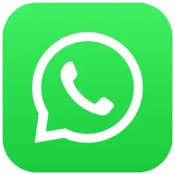
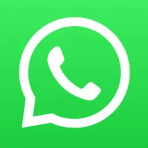
atualizando meu site colocando a parte de projetos e melhorando a aparência do contact

diff --git a/contact.html b/contact.html
@@ -23,11 +23,11 @@
   <header>
 
     <div class="center">
-    <div class="bordap"><img src="./img/imagempessoal.jpeg"></div>
+    <div class="bordap"><img id="imagemprincipal" src="./img/imagempessoal.jpeg"></div>
      <h1>Tauã Ferraz</h1>
      <h2>Contatos<br></h2>
-    <a href="https://api.whatsapp.com/send/?phone=%2B5521979335629&text&type=phone_number&app_absent=0"><img src="./img2/whatsapp.png" ></a>
-     <a href="https://br.linkedin.com/in/tau%C3%A3-ferraz-16617b279"><img src="img3/Sem título.png" ></a>
+    <a href="https://api.whatsapp.com/send/?phone=%2B5521979335629&text&type=phone_number&app_absent=0"><img  id="imagemzap"   src="./img2/whatsapp.png" ></a>
+     <a href="https://br.linkedin.com/in/tau%C3%A3-ferraz-16617b279"><img id="imagemlinkedin"  src="img3/Sem título.png" ></a>
     </div>
 
   </header>

diff --git a/projects.html b/projects.html
@@ -22,14 +22,20 @@
   <header>
 
     <div class="center">
-    <img src="./img/imagempessoal.jpeg">
+    <img    id="imagemprincipal"  src="./img/imagempessoal.jpeg" alt="imagemprincipal">
     </div>
 
   </header>
- <div class="center"> <p><br><br><br>Error 404
-</p>
-<h1>( ͡° ͜ʖ ͡°)</h1>
+ <div class="center"> 
+  <a href="https://github.com/tauefbt"><h3><br><br><br>Clique Aqui
+ </h3>
+<img id="imagemgit" src="img4/github.png" alt="imagemgit"></a>
+
+
+
 </div>
+
+
 
 </body>
 </html>

diff --git a/index.css b/index.css
@@ -32,11 +32,18 @@ img{
 .bg2{
     background-color: rgb(95, 95, 95);
 }
-img2{
-    width: 150px;
-    height: 150px;
+#imagemprincipal{
+border-radius: 50%;
+border: 2px solid black;
 }
-img3{
-    width: 150px;
-    height: 150px;
+#imagemzap{
+border-radius: 20%;
+margin: 15px;
+}
+#imagemlinkedin{
+border-radius: 20%;
+margin: 15px;
+}
+#imagemgit{
+    margin: 10px;
 }

diff --git a/index.html b/index.html
@@ -22,7 +22,7 @@
   <header>
 
     <div class="center">
-    <img src="./img/imagempessoal.jpeg">
+    <img   id="imagemprincipal"  src="img/imagempessoal.jpeg" alt="imagempessoal">
      <h1>Tauã Ferraz</h1>
      <h2>Desenvolvedor de Software<br></h2>
      <h3>Objetivos</h3>
